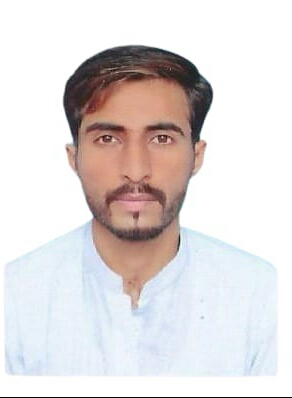
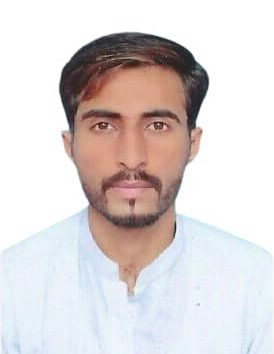
photos changed

Changed region(s): [[0.0292, 0.0932, 0.9927, 0.8701], [0.0, 0.8701, 1.0, 1.0], [0.8467, 0.8701, 0.8759, 0.9322]]

diff --git a/src/components/About.jsx b/src/components/About.jsx
@@ -117,7 +117,7 @@ function About() {
             {/* Owner 1 */}
             <div className="bg-gray-100 p-6 rounded-xl shadow-md">
               <img
-                src="/owner-R.png" // Replace with actual image path
+                src="/owner-1(2).jpg" // Replace with actual image path
                 alt="Owner 1"
                 className="w-45 h-50 object-fit rounded-full mb-4 mx-auto shadow-md"
               />
